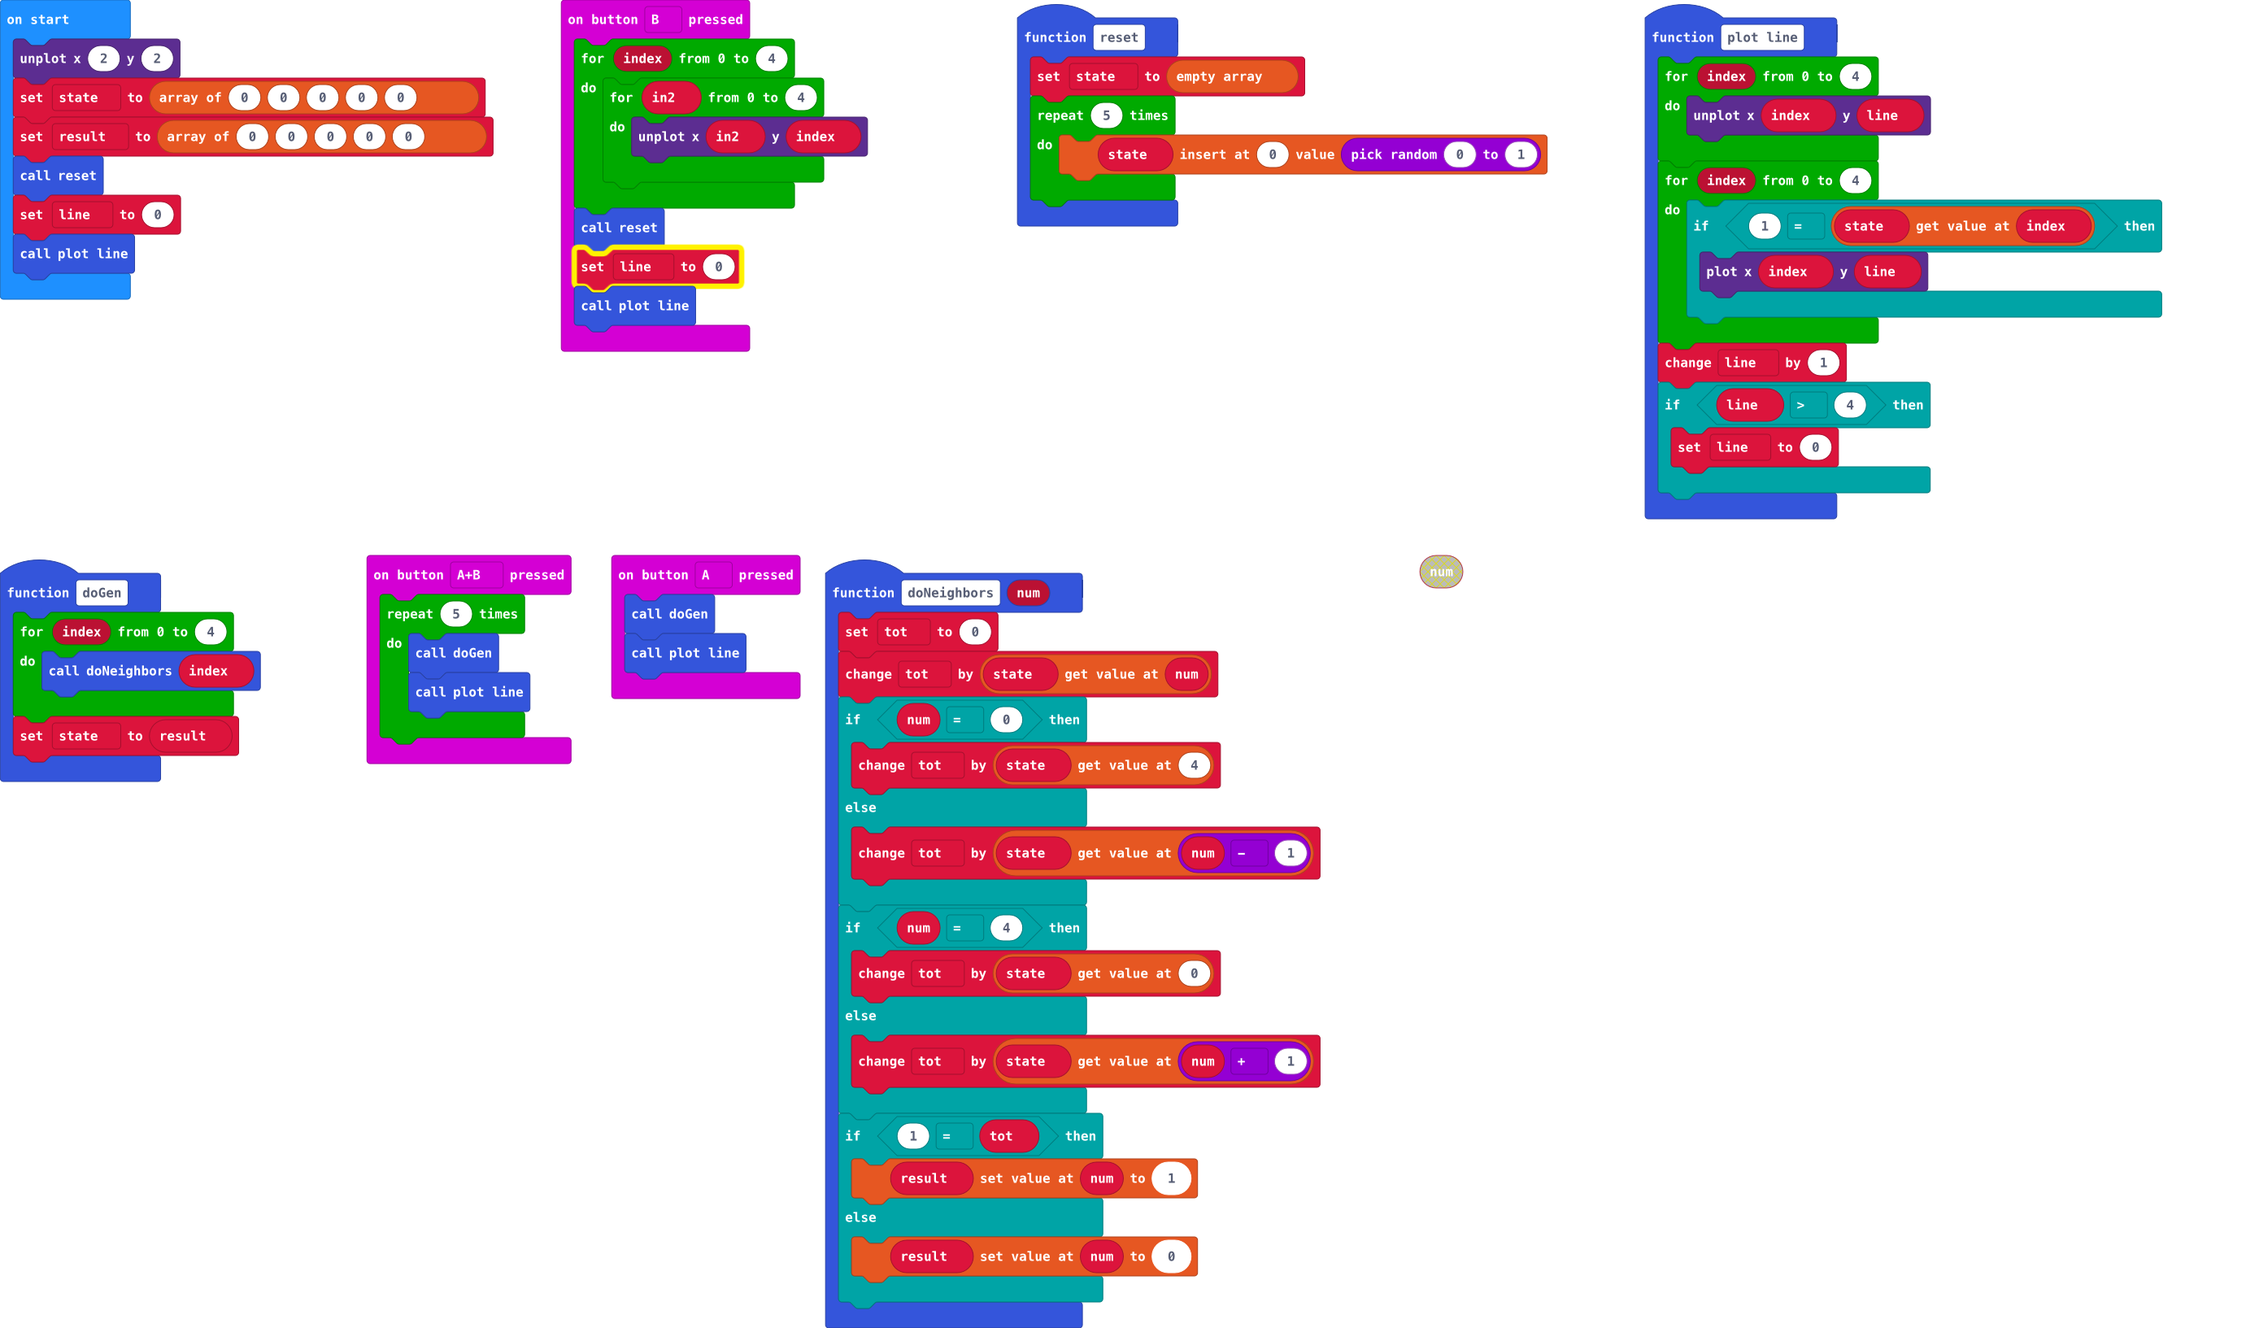
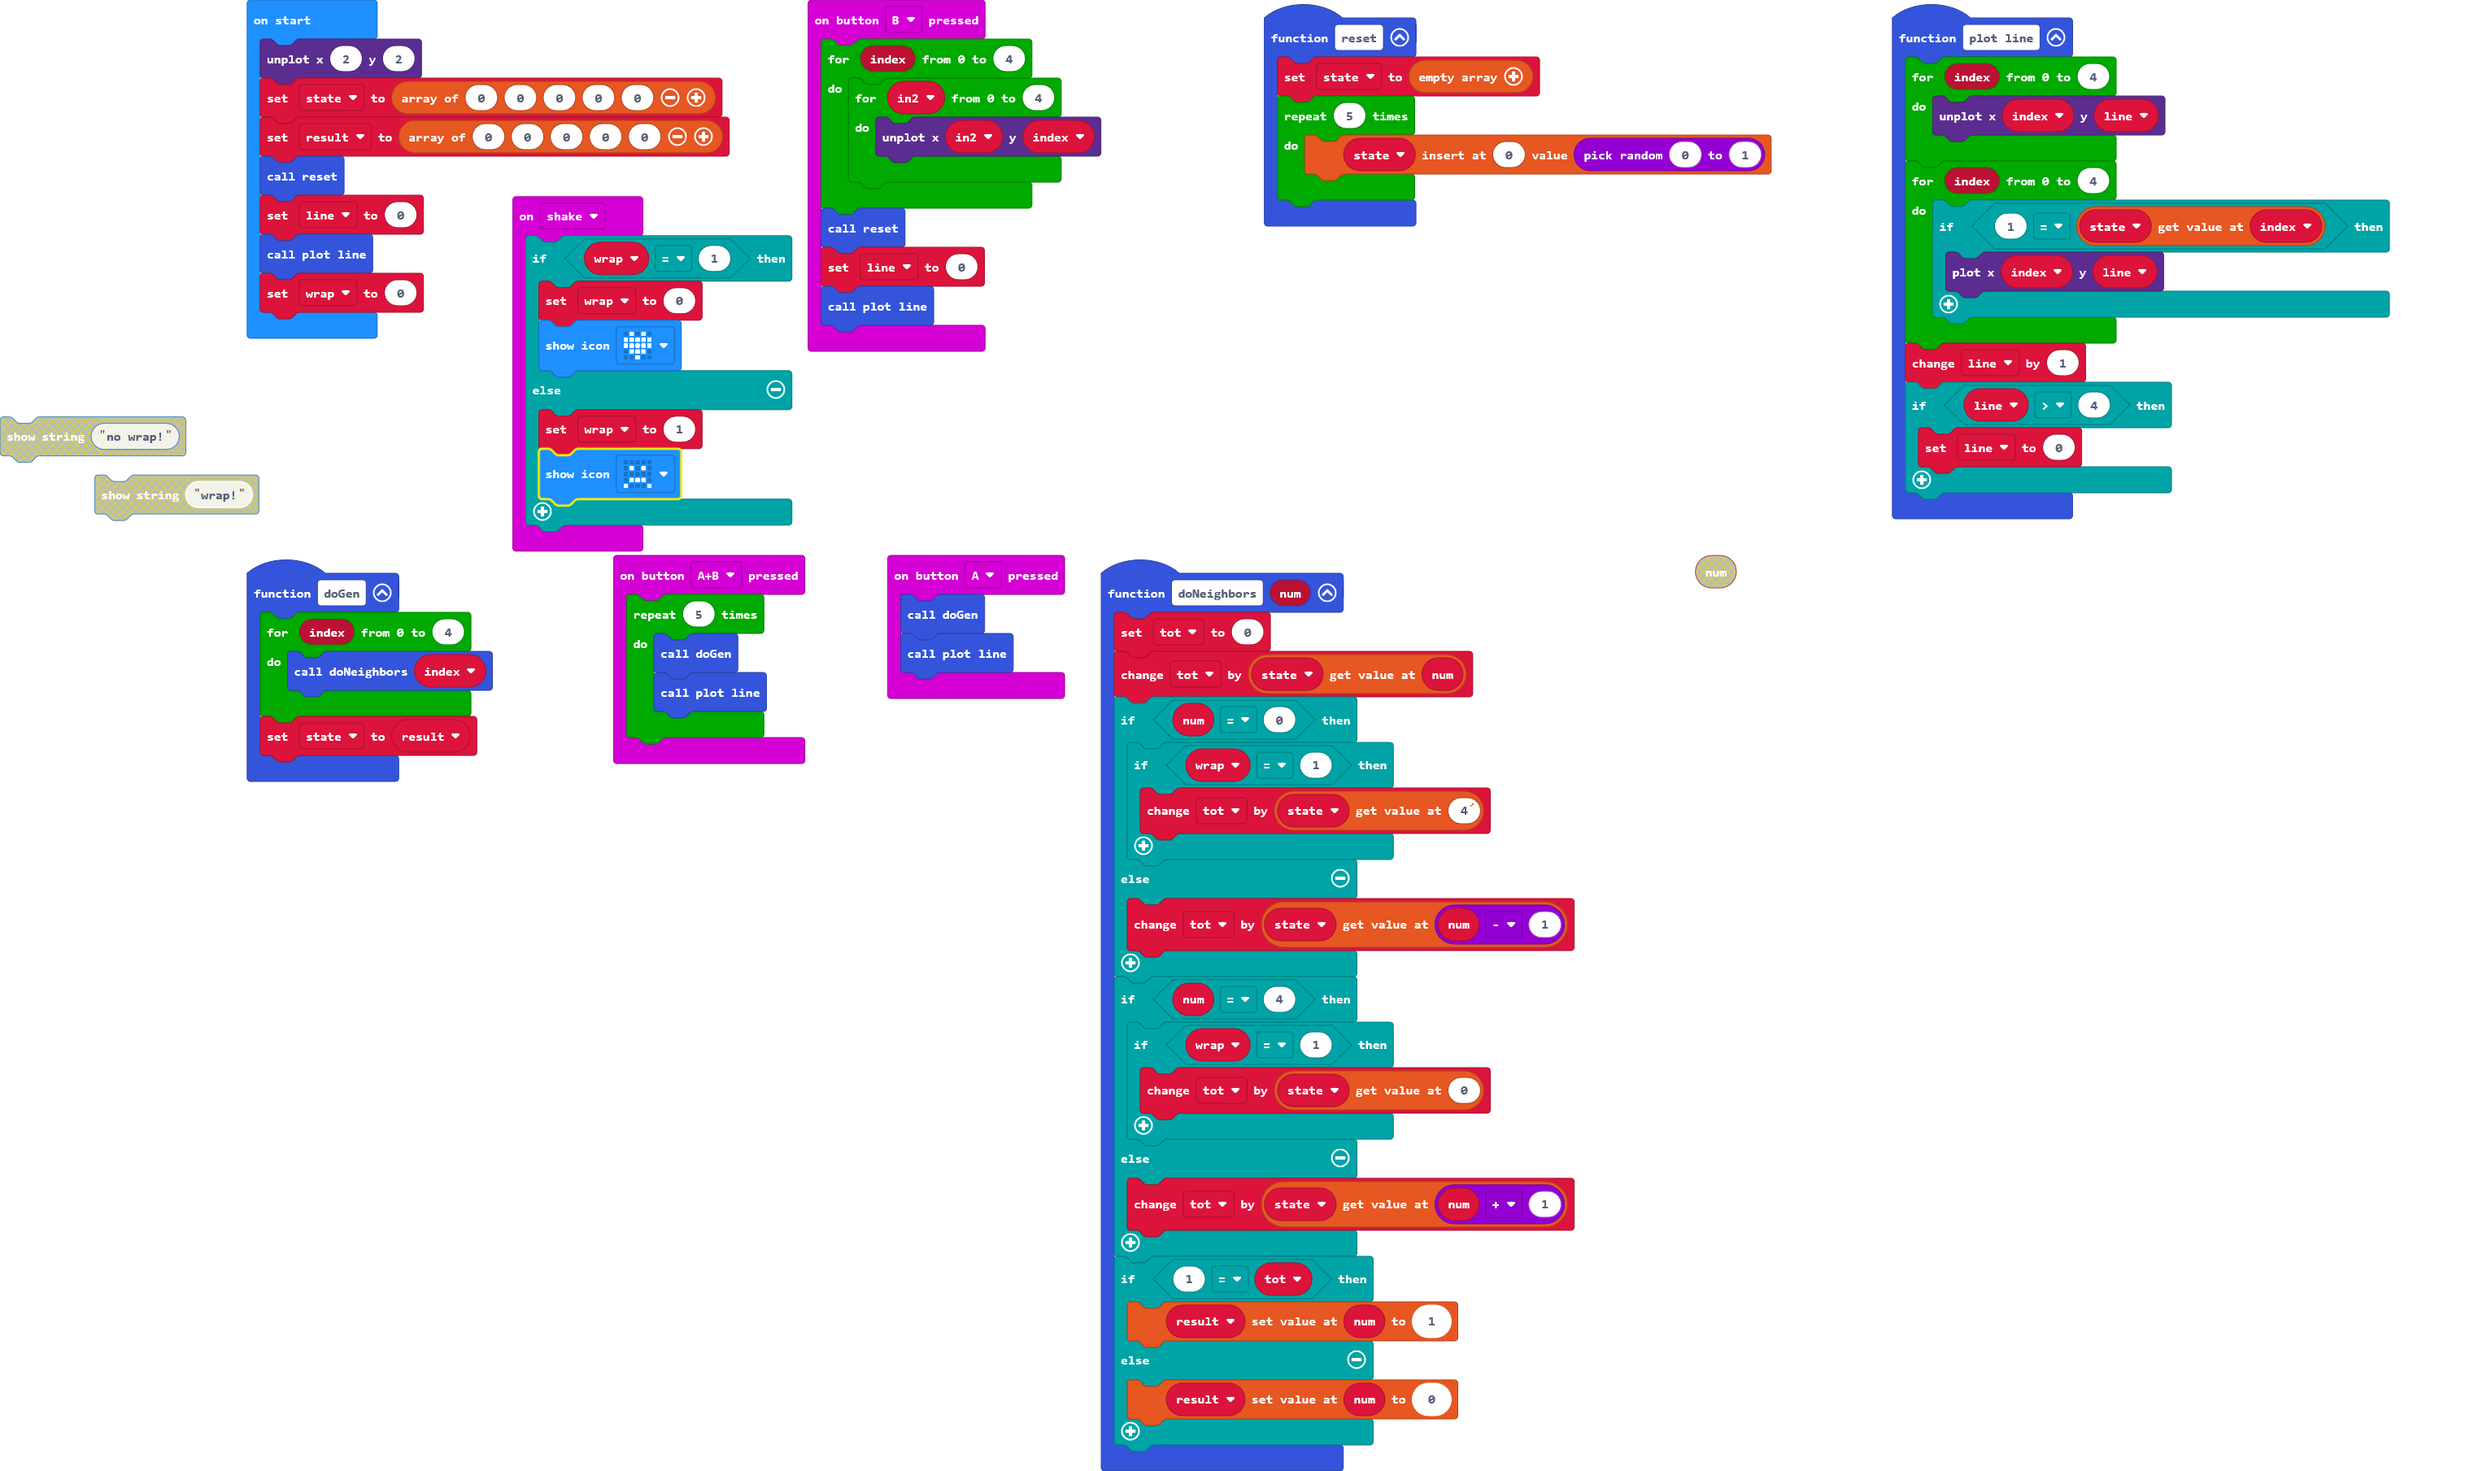
Update main.blocks, main.ts

diff --git a/main.ts b/main.ts
@@ -12,12 +12,16 @@ function doNeighbors (num: number) {
     tot = 0
     tot += state[num]
     if (num == 0) {
-        tot += state[4]
+        if (wrap == 1) {
+            tot += state[4]
+        }
     } else {
         tot += state[num - 1]
     }
     if (num == 4) {
-        tot += state[0]
+        if (wrap == 1) {
+            tot += state[0]
+        }
     } else {
         tot += state[num + 1]
     }
@@ -43,6 +47,15 @@ input.onButtonPressed(Button.B, function () {
     line = 0
     plot_line()
 })
+input.onGesture(Gesture.Shake, function () {
+    if (wrap == 1) {
+        wrap = 0
+        basic.showIcon(IconNames.Heart)
+    } else {
+        wrap = 1
+        basic.showIcon(IconNames.Sad)
+    }
+})
 function plot_line () {
     for (let index = 0; index <= 4; index++) {
         led.unplot(index, line)
@@ -64,6 +77,7 @@ function reset () {
     }
 }
 let tot = 0
+let wrap = 0
 let line = 0
 let result: number[] = []
 let state: number[] = []
@@ -73,3 +87,4 @@ result = [0, 0, 0, 0, 0]
 reset()
 line = 0
 plot_line()
+wrap = 0
